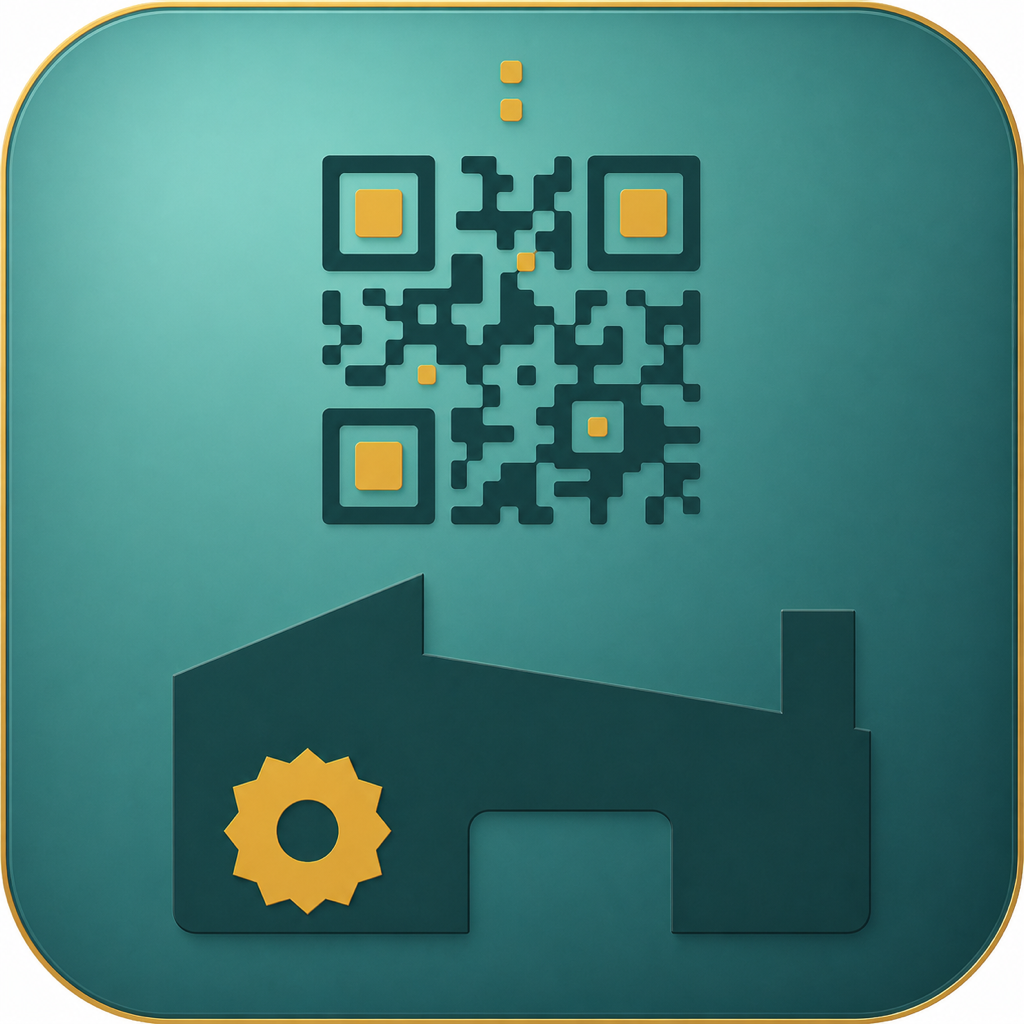
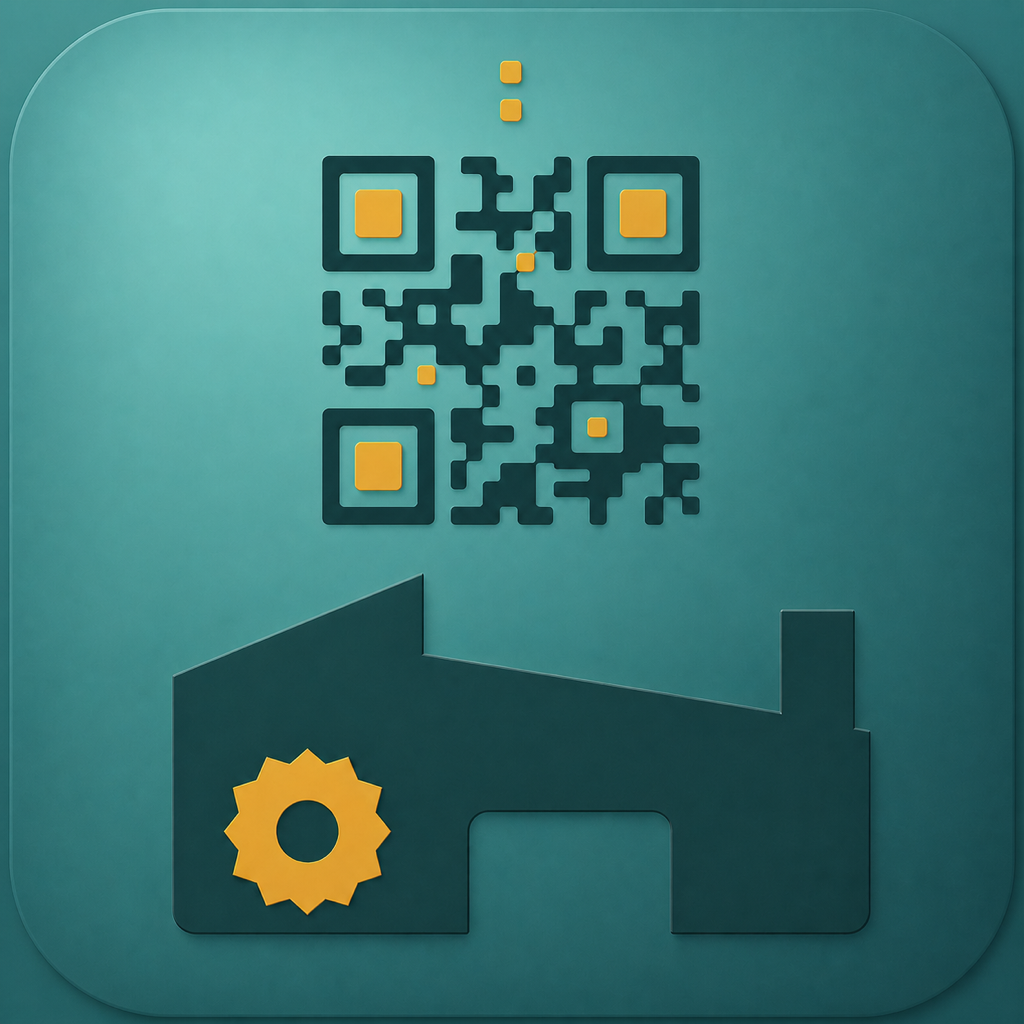
feat(brand): complete QRWerk identity / QRWerk-Auftritt vervollstaendigen

Changed region(s): [[0.0, 0.0, 1.0, 1.0], [0.4062, 0.3438, 0.4375, 0.375], [0.4062, 0.1875, 0.4375, 0.2188]]

diff --git a/src/app/pages/scan/scan.page.html b/src/app/pages/scan/scan.page.html
@@ -13,7 +13,7 @@
 <ion-content #content class="ion-no-border">
   @if (usesNativeScanner) {
   <div class="native-scanner-launcher">
-    <ion-icon name="qr-code-outline"></ion-icon>
+    <img class="qrwerk-launcher-logo" src="assets/img/round_icon.png" alt="QRWerk">
     <div class="native-scanner-actions">
       <ion-button size="large" (click)="tapHaptic(); scanUsingNativeInterface()">
         <ion-icon slot="start" name="camera-outline"></ion-icon>

diff --git a/src/app/pages/about/about.page.html b/src/app/pages/about/about.page.html
@@ -10,7 +10,7 @@
 
 <ion-content>
   <div class="pt-5 pb-1 d-flex justify-content-center align-content-center flex-column text-center">
-    <img class="align-self-center pb-3" src="assets/img/round_icon.png" style="max-width: 150px;">
+    <img class="align-self-center pb-3" src="assets/img/round_icon.png" style="width: 150px; height: 150px; object-fit: contain;">
     <div>Original: Tom Fong</div>
     <div>iOS fork: Globi-vs-Globine</div>
   </div>

diff --git a/src/app/pages/scan/scan.page.scss b/src/app/pages/scan/scan.page.scss
@@ -57,10 +57,12 @@ ion-fab {
     height: 100%;
 }
 
-.native-scanner-launcher ion-icon {
-    color: #00a5aa;
-    font-size: 112px;
-    opacity: 0.8;
+.qrwerk-launcher-logo {
+    display: block;
+    width: min(210px, 52vw);
+    height: auto;
+    max-height: 260px;
+    object-fit: contain;
 }
 
 .native-scanner-actions {
